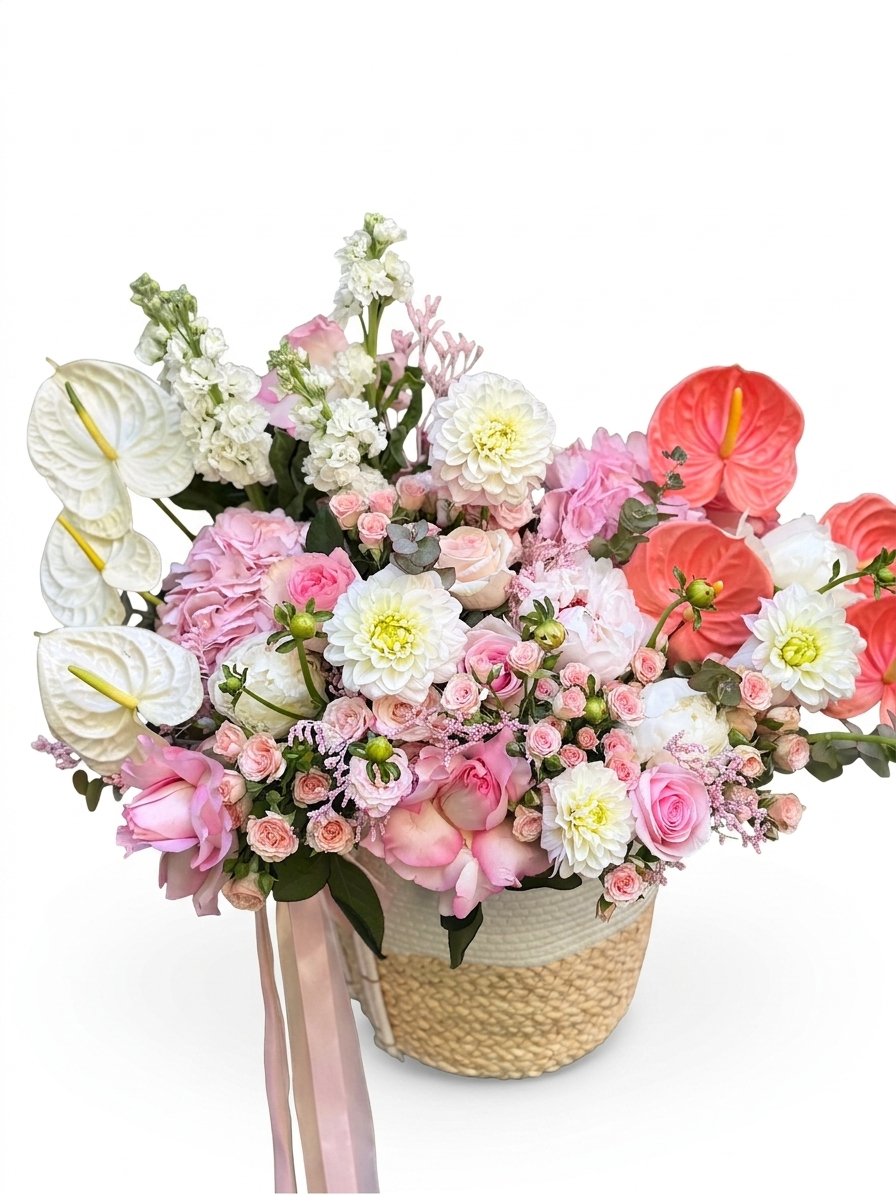
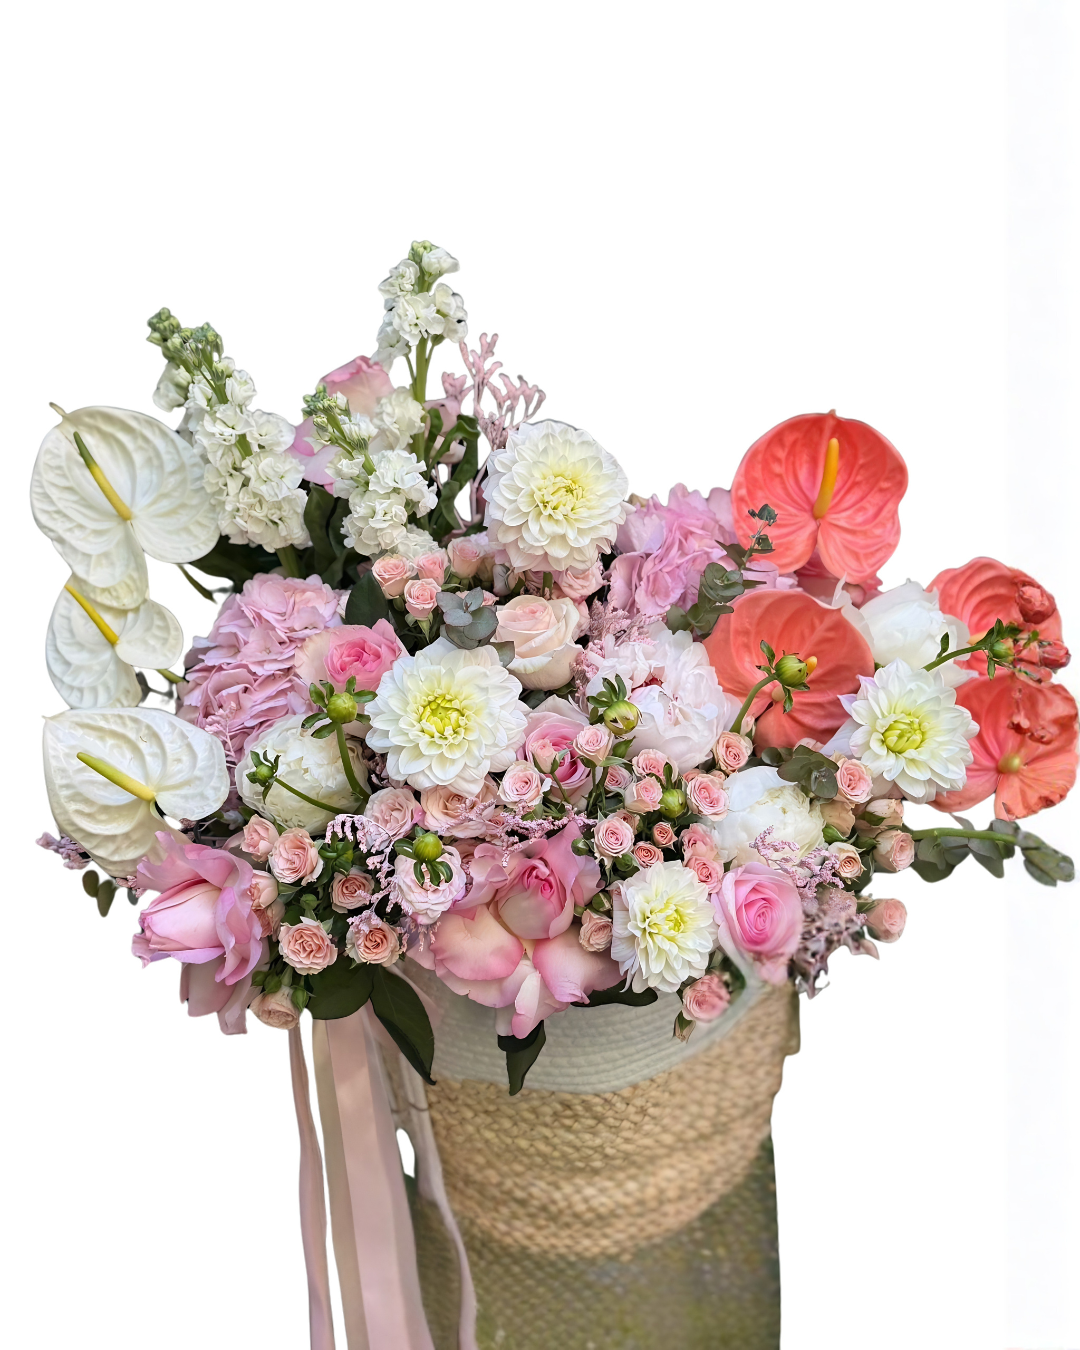
addition to new elements

diff --git a/index.html b/index.html
@@ -3,7 +3,7 @@
   <head>
     <meta charset="UTF-8" />
     <meta name="viewport" content="width=device-width, initial-scale=1.0" />
-    <title>Bota e Luleve | Lule të Bukura në Tiranë</title>
+    <title>Bota e Luleve | Buqeta dhe Kompozime Lulesh me Porosi në Tiranë</title>
     <link rel="icon" href="./assets/botaluleve.jpg">
     <meta
       name="description"
@@ -157,16 +157,17 @@
 
         <div class="about__content">
           <p class="section-kicker reveal">Rreth Nesh</p>
-          <h2 class="section-title reveal">Pasion për bukurinë e natyrës</h2>
+          <h2 class="section-title reveal">Bota e Luleve: Një lule për ty</h2>
           <p class="section-copy reveal">
-            Që nga viti 2008, Bota e Luleve ka sjellë gëzim dhe ngrohtësi në
-            zemrat e klientëve tanë. Me mbi 16 vjet eksperiencë dhe një komunitet me
-            mbi 319 mijë ndjekës në Instagram, jemi bërë një emër i dashur për
-            surpriza florale, evente dhe momente që mbahen mend.
+            Prej 16 vitesh, <strong>Bota e Luleve</strong> është pjesë e momenteve tuaja më të 
+            bukura, duke u kthyer në një pikë referimi për dizajnin floral dhe 
+            elegancën në çdo event. Sot, ne vazhdojmë të krijojmë histori përmes 
+            një pune artizanale të imtësishme, duke u kujdesur për çdo detaj të surprizave 
+            tuaja.
           </p>
           <p class="section-copy reveal">
-            Çdo buqetë krijohet me duar, intuitë dhe kujdes estetik - sepse për
-            ne lulet nuk janë dekor, por gjuhë emocioni.
+            Çdo buqetë punohet me dorë dhe ndjeshmëri estetike — sepse për ne, lulet nuk janë 
+            thjesht dekor, por gjuha më e pastër e emocionit.
           </p>
 
           <div class="about__grid">
@@ -174,9 +175,9 @@
               <strong>16+</strong>
               <span>Vite eksperiencë florale</span>
             </article>
-            <article class="about-card about-card--metric reveal">
-              <strong>319K</strong>
-              <span>Ndjekës në Instagram</span>
+            <article class="about-card reveal">
+              <strong>Lule të Freskëta</strong>              
+              <span>Përzgjedhje e përditshme për jetëgjatësi maksimale</span>
             </article>
             <article class="about-card reveal">
               <strong>Dërgesa në Tiranë</strong>
@@ -248,13 +249,13 @@
           <div class="section-head section-head--dark reveal">
             <div>
               <p class="section-kicker">Koleksioni</p>
-              <h2 class="section-title">Koleksioni i Kururar</h2>
+              <h2 class="section-title">Katalogu i Buqetave</h2>
             </div>
             <a class="section-link" href="#porosit">Porosit me formular</a>
           </div>
 
           <div class="shop-toolbar reveal">
-            <p>Zgjidhni artin tonë floral · porositë finalizohen menjëherë në WhatsApp.</p>
+            <p>Zgjidhni modelin tuaj të preferuar · porositë finalizohen menjëherë në WhatsApp.</p>
             <span>Dërgim në Tiranë & marrje në dyqan</span>
           </div>
 

diff --git a/styles.css b/styles.css
@@ -775,6 +775,11 @@ body.is-loaded .preloader {
   font-size: 0.92rem;
 }
 
+.about-card span{
+ letter-spacing: 0.08em;
+  text-transform: uppercase;
+  font-size: 0.72rem;
+}
 .about-card--metric strong {
   margin-bottom: 0.15rem;
   font-family: var(--serif);
@@ -790,7 +795,7 @@ body.is-loaded .preloader {
 }
 
 .collections {
-  padding: 7rem 0;
+  padding: 5rem 0;
   background: linear-gradient(180deg, var(--deep), #1f1214);
 }
 
@@ -1486,7 +1491,7 @@ body.is-loaded .preloader {
   overflow: hidden;
   border-radius: 28px;
   background: #fff;
-  min-height: 34rem;
+  /* min-height: 34rem; */
   box-shadow: var(--shadow-strong);
 }
 
@@ -2057,9 +2062,10 @@ body.is-loaded .preloader {
   }
 
 
-  .product-card__content {
-    gap: 0;
-  }
+.product-card {
+justify-items:center;
+}
+
 
   .detailsbtn{
     display:none;
@@ -2080,6 +2086,10 @@ body.is-loaded .preloader {
     text-align: center; /* Center text to align with the image above */
   }
 
+  .product-card__content {
+    gap: 0;
+    justify-items:center;
+  }
   .product-card__price {
     justify-content: center; /* Centers price when text-align is center */
   }

diff --git a/script.js b/script.js
@@ -21,8 +21,8 @@ const whatsappNumber = String(body.dataset.whatsapp || "").replace(/\D/g, "");
 
 const products = [
   {
-    id: "royal-rose-dome",
-    title: "Royal Rose Mix (100 copë)",
+    id: "rose-mix",
+    title: "Kopshti i Trëndafilave Mix (100 copë)",
     category: "Koleksioni Premium",
     price: "25,000 L",
     oldPrice: "",
@@ -38,8 +38,8 @@ const products = [
     ],
   },
   {
-    id: "red-roses-classic",
-    title: "100 Trëndafila Klasikë",
+    id: "red-rose",
+    title: "Trëndafila Klasikë të Kuq (100 copë)",
     category: "Trëndafila",
     price: "25,000 L",
     oldPrice: "",
@@ -55,7 +55,7 @@ const products = [
     ],
   },
   {
-    id: "peony-blush-deluxe",
+    id: "peony-deluxe",
     title: "Peony Deluxe",
     category: "Peonies",
     price: "20,000 - 25,000 L",
@@ -90,7 +90,7 @@ const products = [
   },
   {
     id: "spring-tulips",
-    title: "Tulipanë Pranvere",
+    title: "Tulipanët e Pranverës",
     category: "Tulipanë",
     price: "10,000 L",
     oldPrice: "",
